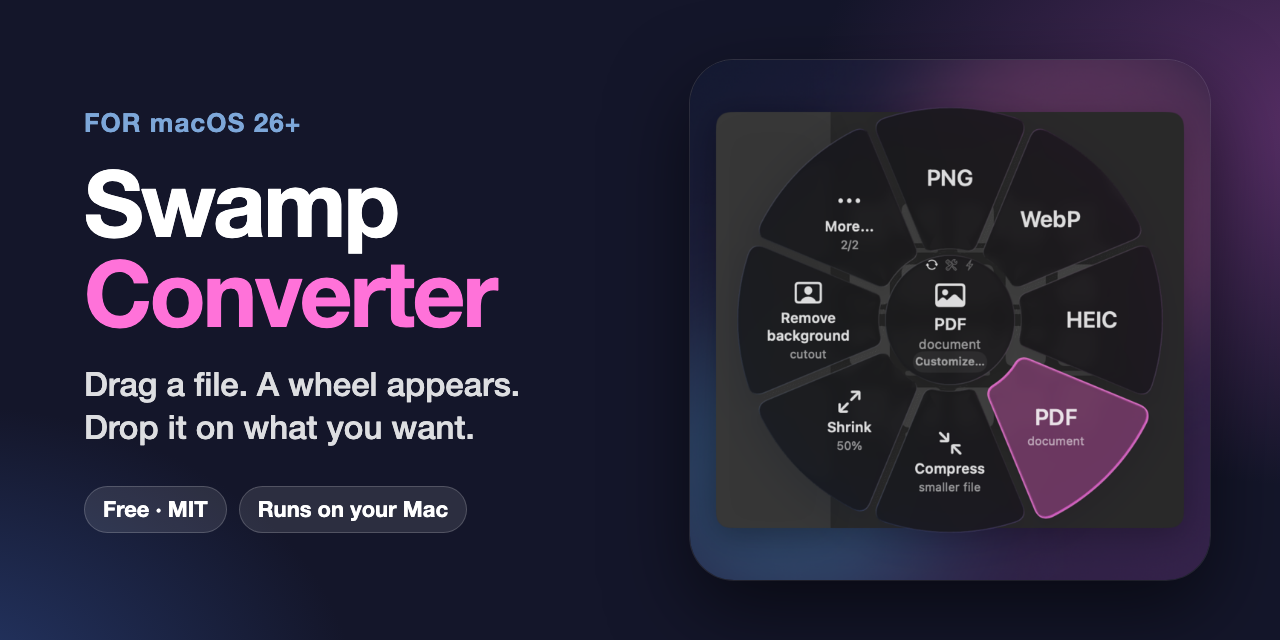
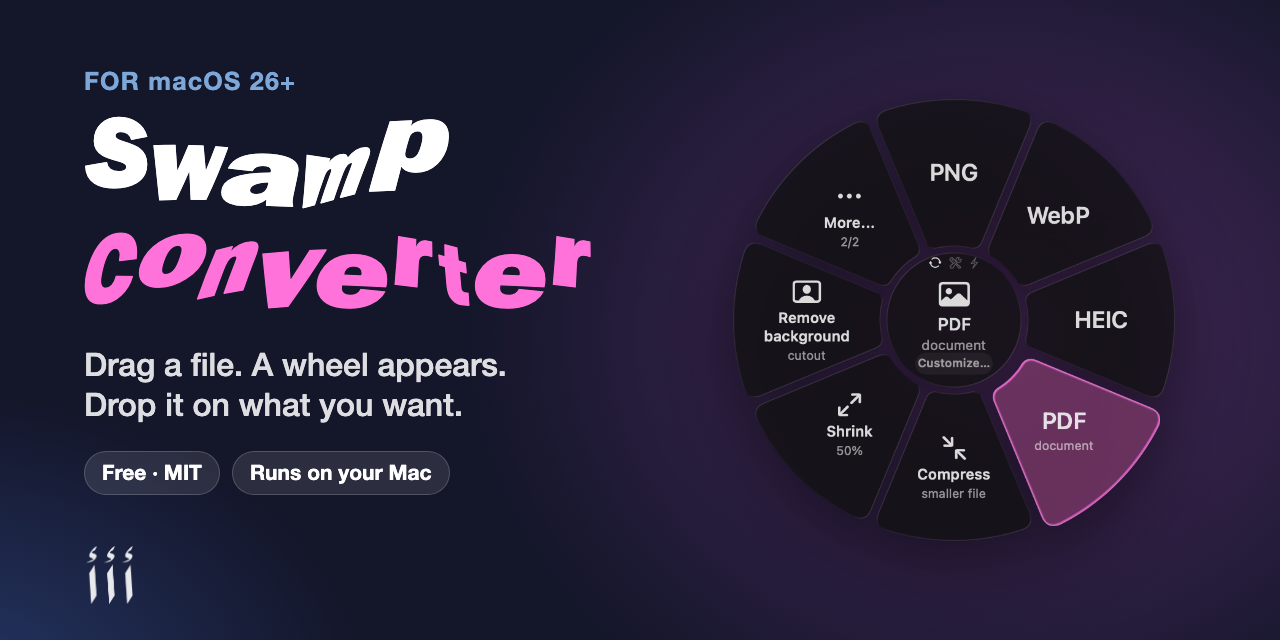
README: social preview as the hero image, release/downloads/build badges, Download button; new social preview with the cut-out wheel; transparent wheel snapshots for artwork

diff --git a/Sources/UI/Wheel/WheelSnapshots.swift b/Sources/UI/Wheel/WheelSnapshots.swift
@@ -108,6 +108,10 @@ extension WheelModule {
         typealias D = WheelSnapshotData
         s.register("wheel.three-sectors", size: size, variants: full) { WheelSnapshotView(D.model(pages: D.three, highlight: 1, summary: D.oneImage())) }
         s.register("wheel.eight-sectors", size: size, variants: full) { WheelSnapshotView(D.model(pages: D.eight, highlight: 3)) }
+        // The wheel alone, for artwork such as docs/social-preview.png. Glass over a transparent window samples whatever is behind the window, so it is rendered
+        // twice, over flat black and flat white; the difference of the two gives the wheel's own colour and opacity (a cut-out with no wallpaper in it).
+        s.register("wheel.promo-black", size: size, backdrop: .none, variants: [SnapshotVariant.dark]) { ZStack { Color.black; WheelSnapshotView(D.model(pages: D.eight, highlight: 3)) } }
+        s.register("wheel.promo-white", size: size, backdrop: .none, variants: [SnapshotVariant.dark]) { ZStack { Color.white; WheelSnapshotView(D.model(pages: D.eight, highlight: 3)) } }
         s.register("wheel.eight-idle", size: size, variants: full) { WheelSnapshotView(D.model(pages: D.eight, mode: .click)) }
         s.register("wheel.twelve-sectors", size: size, variants: full) { WheelSnapshotView(D.model(pages: D.twelve, highlight: 10)) }
         s.register("wheel.link-long-title", size: size, variants: full) { WheelSnapshotView(D.linkModel()) }

diff --git a/README.md b/README.md
@@ -1,9 +1,6 @@
 <div align="center">
 
-<picture>
-  <source media="(prefers-color-scheme: dark)" srcset="docs/screenshots/wheel-convert-dark.png">
-  <img src="docs/screenshots/wheel-convert.png" alt="The Swamp Converter wheel" width="420">
-</picture>
+<img src="docs/social-preview.png" alt="Swamp Converter: drag a file, a wheel appears, drop it on what you want" width="860">
 
 # Swamp Converter
 
@@ -12,13 +9,18 @@
 Convert, compress, download and tidy files from a radial menu that opens right where you are working.
 Everything runs on your Mac.
 
+[![Download the latest release](https://img.shields.io/github/v/release/aansonsa/swamp-converter?style=for-the-badge&label=Download&logo=apple&logoColor=black&labelColor=FF72D9&color=7DA7D9)](https://github.com/aansonsa/swamp-converter/releases/latest)
+
+[![Latest release](https://img.shields.io/github/v/release/aansonsa/swamp-converter?label=release)](https://github.com/aansonsa/swamp-converter/releases/latest)
+[![Downloads](https://img.shields.io/github/downloads/aansonsa/swamp-converter/total?label=downloads)](https://github.com/aansonsa/swamp-converter/releases)
+[![Build](https://img.shields.io/github/actions/workflow/status/aansonsa/swamp-converter/build.yml?branch=main&label=build)](https://github.com/aansonsa/swamp-converter/actions/workflows/build.yml)
 ![macOS 26+](https://img.shields.io/badge/macOS-26%2B-black?logo=apple)
 ![Apple silicon](https://img.shields.io/badge/Apple%20silicon-native-black)
 ![Swift](https://img.shields.io/badge/Swift-5-F05138?logo=swift&logoColor=white)
 ![License: MIT](https://img.shields.io/badge/license-MIT-FF72D9)
 ![Local first](https://img.shields.io/badge/runs-100%25%20on%20your%20Mac-7DA7D9)
 
-[Install](#install) · [Your first minute](#your-first-minute) · [Full guide](docs/GUIDE.md) · [Settings reference](docs/SETTINGS.md) · [Known limits](#honest-limits)
+[Install](#install) · [Your first minute](#your-first-minute) · [Full guide](docs/GUIDE.md) · [Settings reference](docs/SETTINGS.md) · [Known limits](#honest-limits) · [Ask a question](../../discussions) · [Report a bug](../../issues/new/choose)
 
 </div>
 
